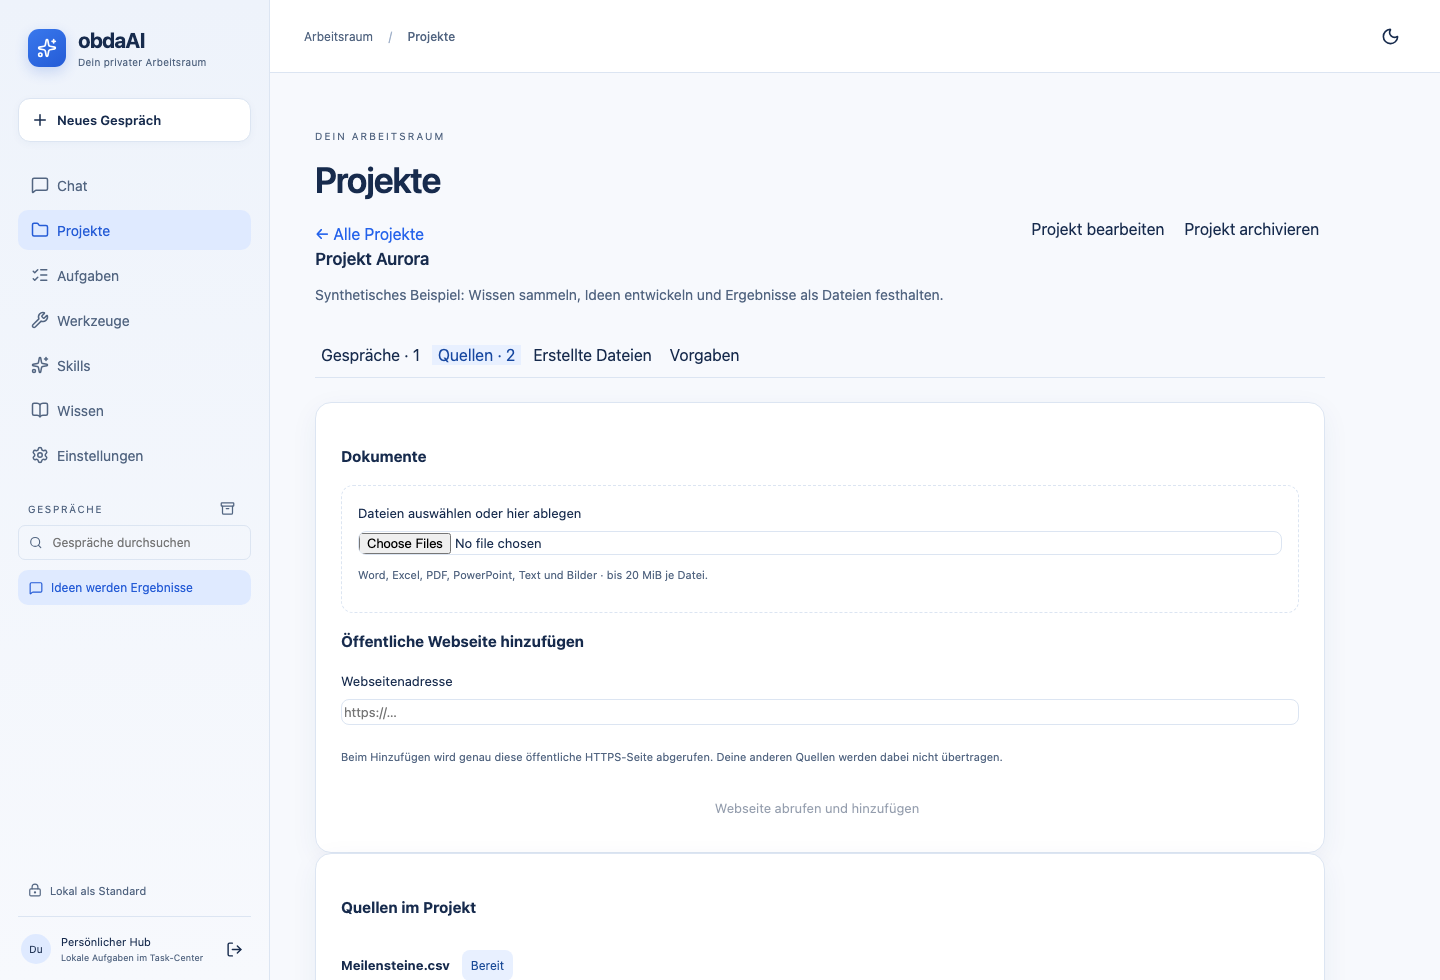
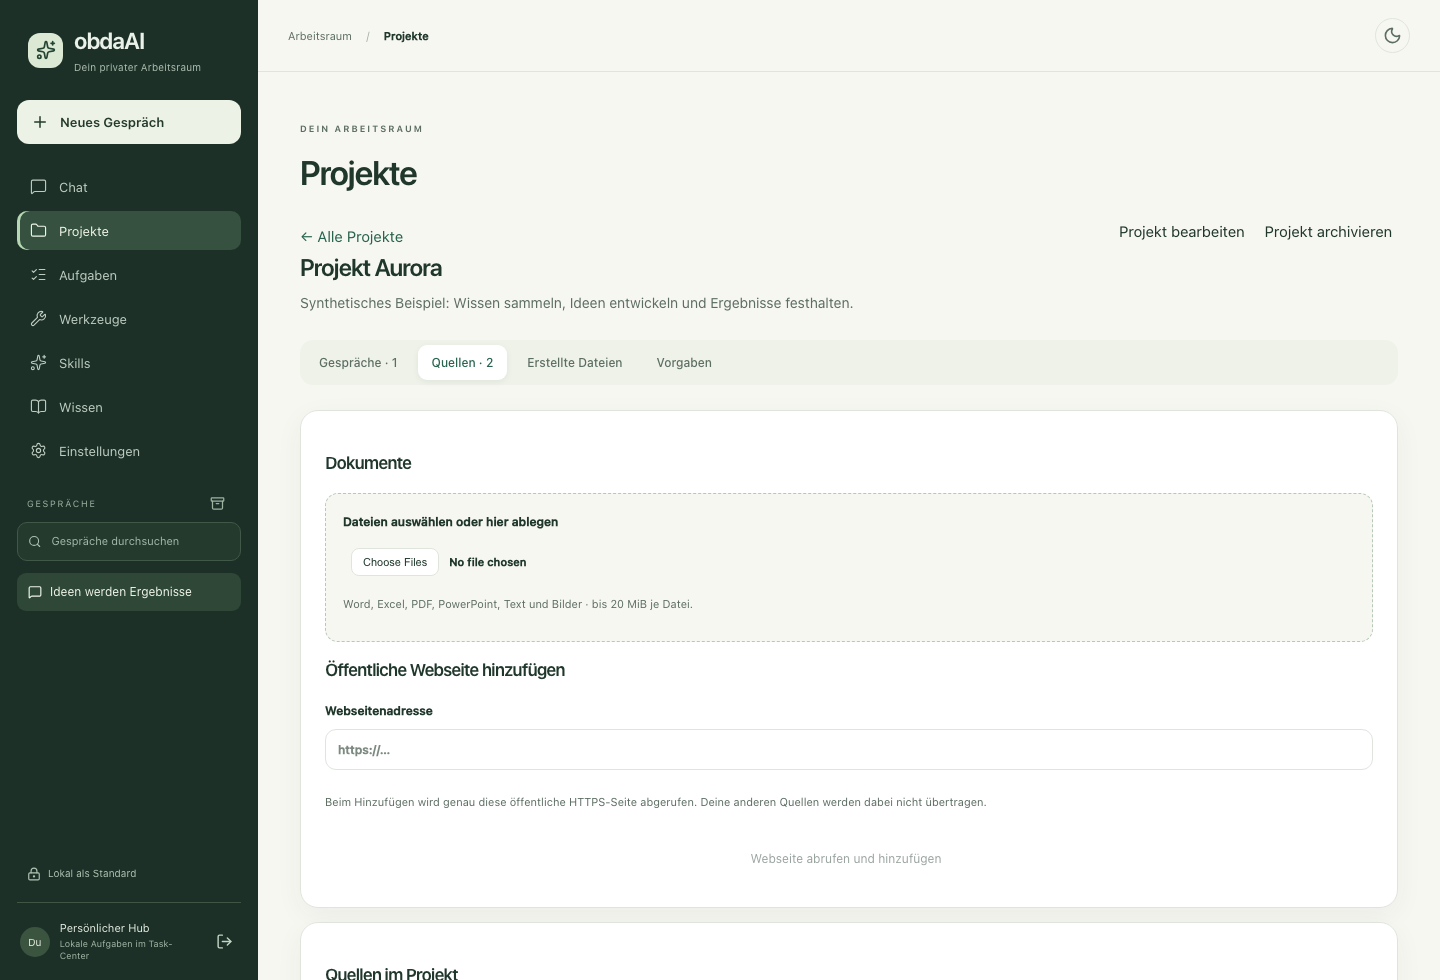
Update project showcase from f81192d2b1b7

diff --git a/index.html b/index.html
@@ -18,7 +18,7 @@
 <section id="einblicke" class="gallery-section"><div class="wrap"><p class="eyebrow">EINBLICKE IN DIE APP</p><div class="section-heading"><h2>So sieht dein<br>Arbeitsraum aus.</h2><p>Original-Screenshots der aktuellen Oberfläche. Alle gezeigten Inhalte stammen aus einer isolierten Demo mit synthetischen Beispieldaten.</p></div><div class="gallery-tabs" role="tablist" aria-label="App-Ansichten" id="gallery-tabs"></div><div class="gallery-body"><div class="gallery-copy"><span class="small-counter" id="gallery-number">01 / 05</span><h3 id="gallery-title">Ein Gespräch. Viele Möglichkeiten.</h3><p id="gallery-description">Persistente Gespräche, Markdown und Modell- sowie Quellenwahl direkt im Eingabebereich.</p><button class="text-link" id="expand-image">Screenshot vergrößern <span aria-hidden="true">↗</span></button><div class="screenshot-note">UI-Demo · keine Live-Modellabnahme</div></div><div class="app-frame gallery-frame" id="gallery-panel" role="tabpanel"><div class="window-bar"><span></span><span></span><span></span><p>obdaAI</p></div><img id="gallery-image" src="assets/chat.png" alt="Chat-Oberfläche mit synthetischen Beispieldaten" width="1440" height="980" loading="lazy"></div></div><div class="mobile-showcase"><div class="phone-frame"><img src="assets/mobile.png" alt="Mobile Chatansicht der App mit synthetischen Beispieldaten" width="390" height="844" loading="lazy"></div><div><p class="eyebrow">AUCH IM KLEINEN FORMAT</p><h3>Dein Gespräch.<br>In deiner Hand.</h3><p>Responsive Navigation und Quellenwahl direkt im Chat. Die mobile Oberfläche ist mit Chromium-Fixtures geprüft; reale Geräteabnahme bleibt offen.</p></div></div></div></section>
 <section id="features" class="features-section wrap"><p class="eyebrow">DER FUNKTIONSKATALOG</p><div class="section-heading"><h2>Was obdaAI<br>heute kann.</h2><p>Alle wesentlichen Funktionen im Überblick. Der Status unterscheidet dokumentierte Live-Prüfungen, implementierte Adapter und bewusst begrenzte Teilfunktionen.</p></div><div class="feature-controls"><div class="filter-tabs" id="feature-tabs" role="group" aria-label="Funktionsbereiche"></div><label class="search-box"><span aria-hidden="true">⌕</span><input id="feature-search" type="search" placeholder="Feature suchen …" aria-label="Features durchsuchen"></label></div><div class="legend"><span><i class="legend-live"></i> Live geprüft*</span><span><i class="legend-local"></i> Lokal geprüft</span><span><i class="legend-implemented"></i> Implementiert</span><span><i class="legend-limited"></i> Begrenzter Teilstand</span></div><p class="feature-count" id="feature-count" aria-live="polite"></p><div id="feature-groups"></div><p class="footnote">* „Live geprüft“ bezeichnet dokumentierte, gezielte Abnahmefälle. Das bestätigt weder jede Eingabe noch allgemeine Faktentreue oder eine vollständig fertige V1. Adapter-, Fixture- und Geräteprüfungen bleiben getrennt.</p><noscript><p>Für den filterbaren Funktionskatalog bitte JavaScript aktivieren. Die Übersicht und Screenshots sind auch ohne JavaScript sichtbar.</p></noscript></section>
 <section class="privacy-section"><div class="wrap privacy-layout"><div><p class="eyebrow">DEINE DATEN. DEINE ENTSCHEIDUNG.</p><h2>Kontrolle ist<br>kein Zusatzfeature.</h2><p>obdaAI beginnt mit LOCAL_ONLY. Quellen, Antworten und abgeleitete Dateien behalten ihre Datenschutzgrenzen. Externe Verarbeitung braucht eine konkrete Freigabe.</p><a href="#features" class="button light" data-category="privacy">Datenschutz & Betrieb <span aria-hidden="true">↗</span></a></div><div class="principles"><article><span>01</span><div><h3>Lokale Verarbeitung zuerst.</h3><p>Kein stiller Cloudwechsel, wenn ein lokales Modell ausfällt.</p></div></article><article><span>02</span><div><h3>Herkunft bleibt sichtbar.</h3><p>Quellenrevisionen, Hashes und Belege binden Ergebnisse an ihre Grundlage.</p></div></article><article><span>03</span><div><h3>Prüfen, bevor es weitergeht.</h3><p>Vorschauen vor Downloads. Konkrete Freigaben und eine globale Schreibpause für kontrollierte Aktionen.</p></div></article></div></div></section>
-<section id="stand" class="status-section wrap"><p class="eyebrow">TRANSPARENTER ENTWICKLUNGSSTAND</p><div class="section-heading"><h2>Schon viel möglich.<br>Noch nicht am Ziel.</h2><p>Die bisherige Anwendung ist auf einer eigenen VM installiert. Neue Bedienfunktionen werden derzeit ausschließlich lokal entwickelt und geprüft. M3, M4 und M5 bleiben Teilstände; V1 ist in Entwicklung.</p></div><p class="development-status" id="development-status">Neue Bedienoptimierung wird lokal geprüft. Die bisherige Server-Abnahme bleibt separat ausgewiesen.</p><div class="stats"><article><strong id="tests-count">577</strong><span>Tests der letzten Live-Lieferung</span></article><article><strong>6 / 6</strong><span>Erfolgreiche CI-Jobs</span></article><article><strong>5</strong><span>Browserchecks der Live-Lieferung</span></article><article><strong>0024</strong><span>Geprüftes Datenbankschema</span></article></div><div class="status-grid"><article class="release-card"><span class="pill">LETZTE LIVE GEPRÜFTE APP-LIEFERUNG</span><h3>Von der Antwort<br>zur eigenen Datei.</h3><p>Die ausgewählte Chatantwort wird zur Quelle einer lokalen Datei. Revision und Hashes werden erneut geprüft; manuelle Folgeversionen behalten ihren Herkunftsbeleg.</p><dl><div><dt>App-Code</dt><dd id="app-release">80179bc</dd></div><div><dt>Abnahme</dt><dd>06.10.2026</dd></div><div><dt>Eigener isolierter Restore</dt><dd>55 Originale · 34 Dateiversionen</dd></div></dl><a id="ci-link" href="https://github.com/sschluet/obdaAI/actions/runs/37517517426">CI-Beleg auf GitHub <span aria-hidden="true">↗</span></a><small>Belege im privaten Repository erfordern Zugriff. Diese Website ist öffentlich; App und Quellcode bleiben privat.</small></article><div class="roadmap"><h3>Woran wir weiterarbeiten.</h3><div id="roadmap-items"></div></div></div><div class="maintenance-note"><span class="tiny-icon">↻</span><div><strong>Die Vorstellung wächst mit der App.</strong><p>Bei Projektupdates werden Funktionen, Status und betroffene Screenshots gepflegt. GitHub Pages veröffentlicht den Website-Stand automatisch nach den Website-Prüfungen.</p></div></div></section>
+<section id="stand" class="status-section wrap"><p class="eyebrow">TRANSPARENTER ENTWICKLUNGSSTAND</p><div class="section-heading"><h2>Schon viel möglich.<br>Noch nicht am Ziel.</h2><p>Die bisherige Anwendung ist auf einer eigenen VM installiert. Die integrierte Bedienoberfläche ist auf der Test-VM installiert; neue Vorlagen werden lokal geprüft. M3, M4 und M5 bleiben Teilstände; V1 ist in Entwicklung.</p></div><p class="development-status" id="development-status">Neue Bedienoptimierung wird lokal geprüft. Die bisherige Server-Abnahme bleibt separat ausgewiesen.</p><div class="stats"><article><strong id="tests-count">577</strong><span>Tests der Datei-Liveabnahme</span></article><article><strong>6 / 6</strong><span>Erfolgreiche CI-Jobs</span></article><article><strong>5</strong><span>Browserchecks der Datei-Liveabnahme</span></article><article><strong>0024</strong><span>Geprüftes Datenbankschema</span></article></div><div class="status-grid"><article class="release-card"><span class="pill">BISHERIGE DATEI-LIVEABNAHME</span><h3>Von der Antwort<br>zur eigenen Datei.</h3><p>Die ausgewählte Chatantwort wird zur Quelle einer lokalen Datei. Revision und Hashes werden erneut geprüft; manuelle Folgeversionen behalten ihren Herkunftsbeleg.</p><dl><div><dt>App-Code</dt><dd id="app-release">80179bc</dd></div><div><dt>Abnahme</dt><dd>06.10.2026</dd></div><div><dt>Eigener isolierter Restore</dt><dd>55 Originale · 34 Dateiversionen</dd></div></dl><a id="ci-link" href="https://github.com/sschluet/obdaAI/actions/runs/37517517426">CI-Beleg auf GitHub <span aria-hidden="true">↗</span></a><small>Belege im privaten Repository erfordern Zugriff. Diese Website ist öffentlich; App und Quellcode bleiben privat.</small></article><div class="roadmap"><h3>Woran wir weiterarbeiten.</h3><div id="roadmap-items"></div></div></div><div class="maintenance-note"><span class="tiny-icon">↻</span><div><strong>Die Vorstellung wächst mit der App.</strong><p>Bei Projektupdates werden Funktionen, Status und betroffene Screenshots gepflegt. GitHub Pages veröffentlicht den Website-Stand automatisch nach den Website-Prüfungen.</p></div></div></section>
 <section class="closing wrap"><span class="closing-mark">✳</span><h2>Ideen werden Ergebnisse.<br><em>In deinem KI-Raum.</em></h2><a href="#features" class="button primary">Alle Funktionen entdecken <span aria-hidden="true">↗</span></a></section>
 </main>
 <footer class="wrap"><a class="brand" href="#">obda<span class="brand-ai">AI</span></a><p>Privater KI-Arbeitsraum · selbst gehostet · in Entwicklung</p><div><span id="updated">Stand: 07.10.2026</span><span id="website-revision"></span></div></footer>

diff --git a/app.js b/app.js
@@ -28,7 +28,7 @@ async function init(){
  const gallery=document.querySelector('#gallery-tabs');const names=['Chat','Projekte','Dateien','Aufgaben','Wissen'];project.screenshots.forEach((shot,i)=>{const b=node('button',names[i]);b.type='button';b.id='gallery-tab-'+i;b.setAttribute('role','tab');b.setAttribute('aria-controls','gallery-panel');b.addEventListener('click',()=>showScreenshot(i));b.addEventListener('keydown',e=>{if(!['ArrowLeft','ArrowRight','Home','End'].includes(e.key))return;e.preventDefault();const n=e.key==='Home'?0:e.key==='End'?4:(i+(e.key==='ArrowRight'?1:4))%5;showScreenshot(n);gallery.children[n].focus();});gallery.append(b);});showScreenshot(0);
  const dialog=document.querySelector('#image-dialog');document.querySelector('#expand-image').addEventListener('click',()=>{const image=document.querySelector('#dialog-image');image.src=project.screenshots[selected].image;image.alt=project.screenshots[selected].title+' – synthetische Beispieldaten';dialog.showModal();});document.querySelector('#close-image').addEventListener('click',()=>dialog.close());dialog.addEventListener('click',e=>{if(e.target===dialog)dialog.close();});
  const roadmap=document.querySelector('#roadmap-items');project.roadmap.forEach((item,i)=>{const el=node('article',undefined,'roadmap-item');el.append(node('span',String(i+1).padStart(2,'0')));const copy=node('div');copy.append(node('h4',item.title),node('p',item.text));el.append(copy);roadmap.append(el);});
- if(project.development){document.querySelector('#development-status').textContent='Neu lokal geprüft: integrierter Chat-Arbeitsbereich, einfachere Dialoge und gespeicherte Antwortvorgaben · Schema '+project.development.schema+'. '+(project.development.ciTests?project.development.ciTests+' Tests in der aktuellen CI, '+project.development.browserChecks+' synthetische Browserprüfungen. ':'')+'Noch keine Serverinstallation dieser Lieferung.';}
+ if(project.development){document.querySelector('#development-status').textContent='Neu lokal geprüft: integrierter Chat-Arbeitsbereich, einfachere Dialoge und gespeicherte Antwortvorgaben · Schema '+project.development.schema+'. '+(project.development.ciTests?project.development.ciTests+' Tests in der aktuellen CI, '+project.development.browserChecks+' synthetische Browserprüfungen. ':'')+(project.development.serverDeployment?'Modernisiertes Design und Dateivorlagen auf der Test-VM installiert. UI-Prüfungen bleiben von breiter Fakten-/Geräteabnahme getrennt.':'Noch keine Serverinstallation dieser Lieferung.');}
  document.querySelector('#updated').textContent='Stand: '+project.updated.split('-').reverse().join('.');document.querySelector('#tests-count').textContent=project.tests;document.querySelector('#app-release').textContent=project.applicationCommit;document.querySelector('#ci-link').href=project.ciUrl;renderFeatures();
  try{const build=await fetch('build.json');if(build.ok){const info=await build.json();document.querySelector('#website-revision').textContent='Website: '+info.revision;}}catch{/* Build metadata is optional for local previews. */}
 }
